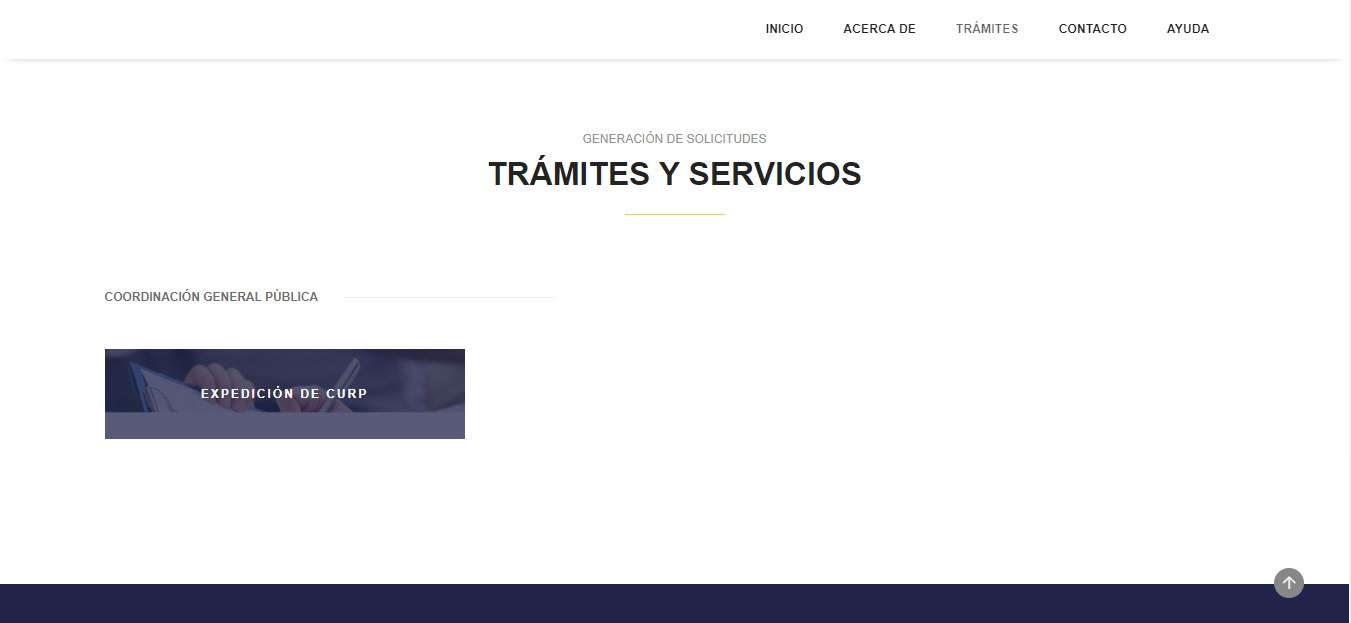
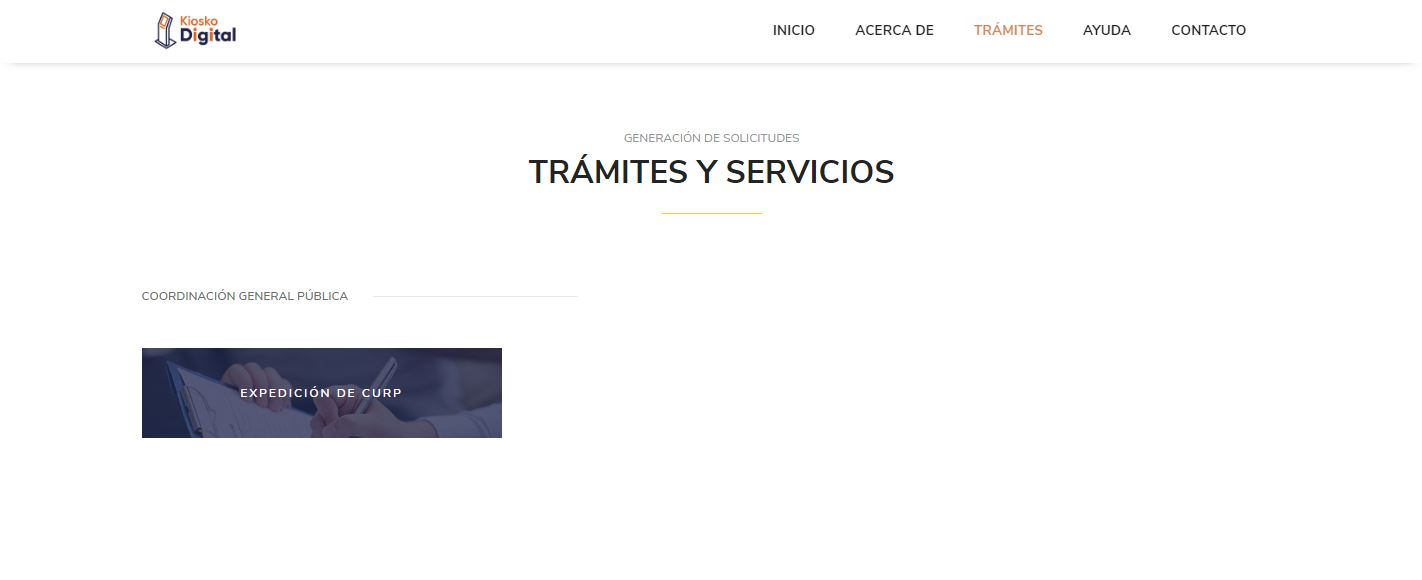
Added tramit details + styles & modified imgs 1 & 2 from help section

diff --git a/index.html b/index.html
@@ -139,8 +139,15 @@
                 </div>
             </div>  
         </div>
+
+        <div class="col-12 col-md-4 margin-15px-bottom wow fadeIn tramDetails">
+            <ul id = "tram1list">
+                <li><strong>Tiempo estimado de respuesta:</strong> 10 días</li>
+                <li><strong>Costo del trámite:</strong> $5000</li>
+            </ul> 
+        </div>
         
-        <div class="col-12 col-md-4 margin-15px-bottom wow fadeIn serviceItem" data-wow-delay="0.2s">
+        <!-- <div class="col-12 col-md-4 margin-15px-bottom wow fadeIn serviceItem" data-wow-delay="0.2s">
             <div class="position-relative overflow-hidden">
                 <div class="w-100 serviceItemBg"></div>
                 <div class="opacity-medium bg-extra-dark-gray"></div>
@@ -195,7 +202,7 @@
                     </div>
                 </div>
             </div>
-        </div>
+        </div> -->
     </div>
 
     <div class="row">

diff --git a/assets/css/custom.css b/assets/css/custom.css
@@ -108,6 +108,16 @@ Yellow:
 	font-size: 20px;
 }
 
+#services .tramDetails { display: none; }
+
+#services .tramDetails ul {
+	display: inline-block;
+	margin: 0 auto;
+	margin-left: 10px;
+}
+
+#services .tramDetails li { font-size: 15px; }
+
 #solRequest { display: none; }
 
 #solRequest form {

diff --git a/index.php b/index.php
@@ -167,7 +167,7 @@
                                 if($trams[7] != NULL) $depends .= ' '.$tag3;
                                 if($trams[8] != NULL) $depends .= ' '.$tag4;
 
-                                $depends .= ' serviceItem" id = "tram'.$countTrams++.'"><div class="position-relative overflow-hidden"><div class="w-100 serviceItemBg"></div><div class="opacity-medium bg-extra-dark-gray"></div><div class="blog-box"><div class="blog-box-image d-flex flex-column justify-content-center align-items-center text-center h-100"><span class="text-white-2 text-uppercase alt-font font-weight-600 text-small letter-spacing-2">'.$trams[1].'</span></div><div class="blog-box-content d-flex flex-column justify-content-center align-items-center text-center h-100"><a href="#services" class="btn btn-white btn-rounded btn-small solLink"><i class="far fa-long-arrow-alt-right"></i></a></div></div></div></div>';
+                                $depends .= ' serviceItem" id = "tram'.$countTrams.'"><div class="position-relative overflow-hidden"><div class="w-100 serviceItemBg"></div><div class="opacity-medium bg-extra-dark-gray"></div><div class="blog-box"><div class="blog-box-image d-flex flex-column justify-content-center align-items-center text-center h-100"><span class="text-white-2 text-uppercase alt-font font-weight-600 text-small letter-spacing-2">'.$trams[1].'</span></div><div class="blog-box-content d-flex flex-column justify-content-center align-items-center text-center h-100"><a class="btn btn-white btn-rounded btn-small solLink"><i class="far fa-long-arrow-alt-right"></i></a></div></div></div></div><div class="col-12 col-md-4 margin-15px-bottom wow fadeIn tramDetails" id = "tram'.$countTrams++.'List"><ul><li><strong>Tiempo estimado de respuesta:</strong> '.$trams[4].' días</li><li><strong>Costo del trámite:</strong> $ '.$trams[3].'</li></ul></div>';
                             }
                         }
                         $depends .= '</div>';
@@ -372,7 +372,6 @@
         <script type="text/javascript" src="assets/revolution/js/jquery.themepunch.revolution.min.js"></script>
         <script type="text/javascript" src="assets/js/main.js"></script>
         <script type="text/javascript">
-            var x = 0;
             var runPlaceholder;
 
             function searchAnim(){
@@ -410,6 +409,7 @@
                     $('.serviceItem').parent().css('display', 'none');
                     $('.' + filter).parent().css('display', 'block');
                     $('.' + filter).css('display', 'block');
+                    $('#solRequest').css('display', 'none');
                 }
             }
 
@@ -426,12 +426,12 @@
                 });
 
                 $(".serviceItem").click(function() {
+                    $('#solRequest').css('display', 'block');
+
                     $('html, body').animate({
-                        scrollTop: $('#services').offset().top - headerHeight + 100
+                        scrollTop: $('#solRequest').offset().top - headerHeight - 5
                     }, 700);
 
-                    $('#solRequest').css('display', 'block');
-                    x = 1;
                     $('.serviceItem').css('display', 'none');
                     $('.serviceItem').parent().css('display', 'none');
                     $(this).parent().css('display', 'block');
@@ -442,6 +442,8 @@
                     $('.fileHolders input').prop("disabled", true);
                     $('.' + id).css('display', 'block');
                     $('.' + id + ' input').prop("disabled", false);
+                    $('.tramDetails').css('display', 'none');
+                    $('#' + id + 'List').css('display', 'inline-flex');
                 });
 
                 $('#searchButton').click(function(){search();});
